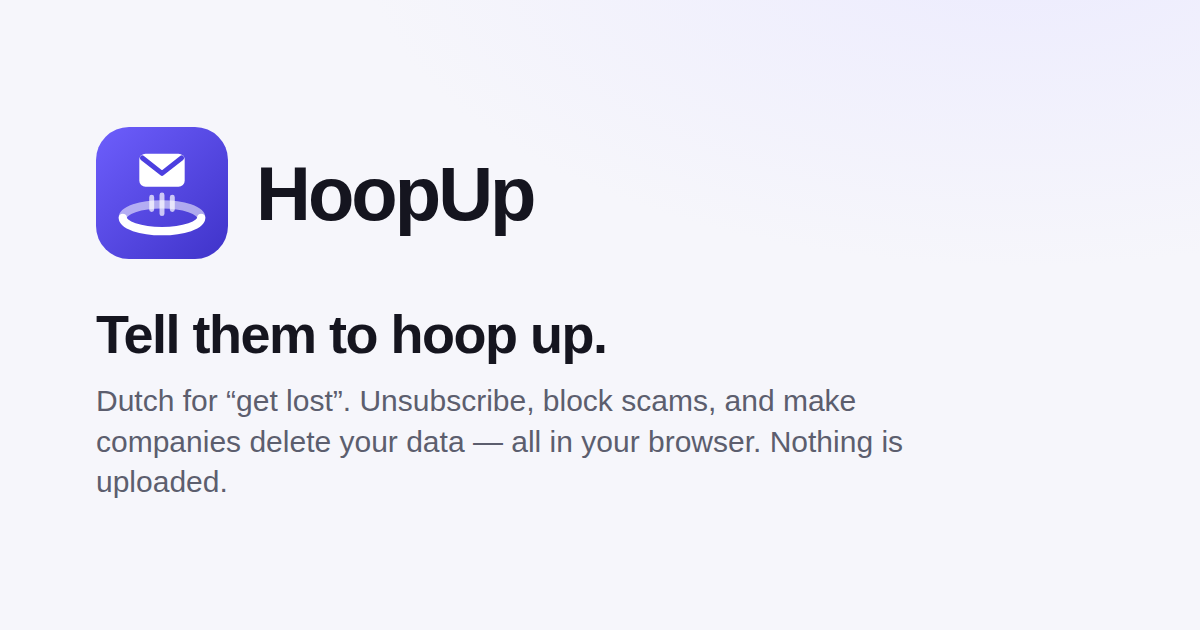
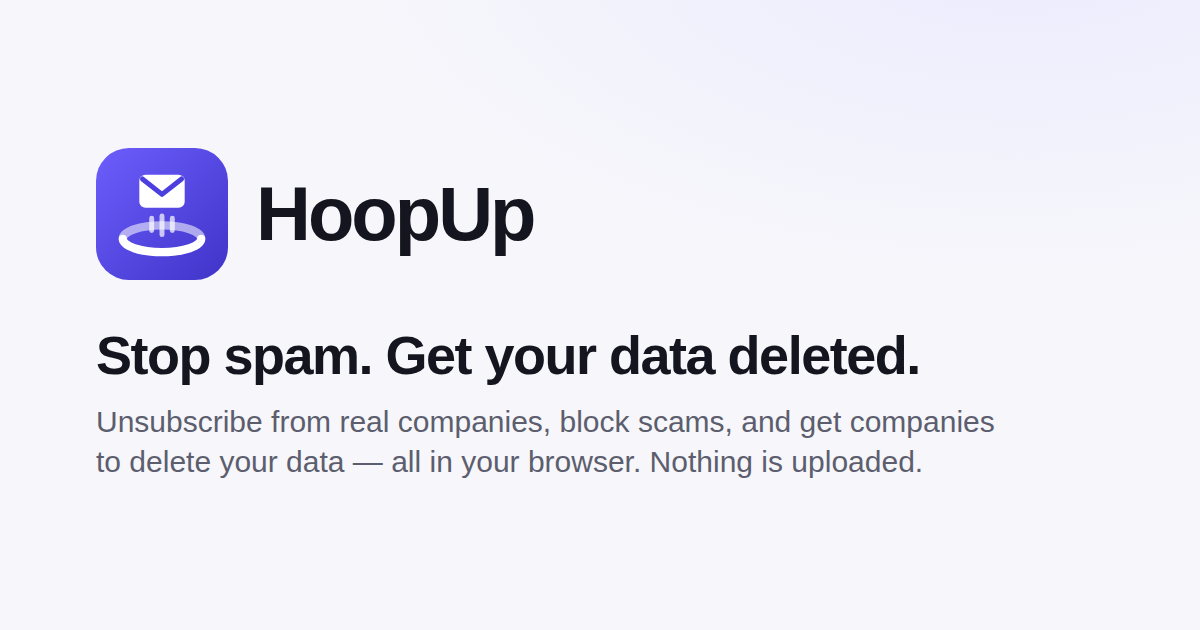
Plain front page: say what HoopUp does, not what the name means
Headline "Stop spam. Get your data deleted." / "Stop spam. Laat je
gegevens wissen.", one sentence on what to do, and three numbered steps
(unsubscribe, block, delete) above the drop zone. The explanation of the
name is gone from the front page, title, link preview, manifest and
README; it remains only on the About page.

Claude-Session: https://claude.ai/code/session_01XV4u65F8vtqzABBY9Vux4v

diff --git a/src/home.js b/src/home.js
@@ -166,17 +166,19 @@ export function home(state) {
   if (!mail.length) return `
   <section class="hero">
     <img class="hero-mark" src="assets/img/icon.svg" alt="" width="56" height="56">
-    <h1>${L('Tell them to hoop up.', 'Laat ze ophoepelen.')}</h1>
-    ${L('<p class="hero-eyebrow">From the Dutch <i>hoepel op!</i> — get lost.</p>', '')}
-    <p>${L(`Drop in the mail from your Junk folder. Real companies get an unsubscribe, scams get blocked,
-    and you see which companies to make delete your data — on this device. Nothing is uploaded.`,
-    `Sleep de mail uit je map Ongewenst hierheen. Echte bedrijven krijgen een uitschrijving, oplichters worden
-    geblokkeerd, en je ziet welke bedrijven je gegevens moeten wissen — op dit apparaat. Er wordt niets geüpload.`)}</p>
+    <h1>${L('Stop spam. Get your data deleted.', 'Stop spam. Laat je gegevens wissen.')}</h1>
+    <p>${L('Drop in the mail from your junk folder. HoopUp tells you what to do with each sender.',
+           'Sleep de mail uit je map Ongewenst hierheen. HoopUp vertelt je wat je met elke afzender doet.')}</p>
+    <ol class="steps">
+      <li><b>${L('Unsubscribe', 'Uitschrijven')}</b><span>${L('from real companies', 'bij echte bedrijven')}</span></li>
+      <li><b>${L('Block', 'Blokkeren')}</b><span>${L('scams and fake senders', 'oplichting en nepafzenders')}</span></li>
+      <li><b>${L('Delete', 'Wissen')}</b><span>${L('your data at companies', 'je gegevens bij bedrijven')}</span></li>
+    </ol>
     ${dropZone(false)}
     <ul class="trust">
       <li>${L('Nothing is uploaded', 'Er wordt niets geüpload')}</li>
       <li>${L('No account', 'Geen account')}</li>
-      <li>${L('Free &amp; open source', 'Gratis &amp; open source')}</li>
+      <li>${L('Free', 'Gratis')}</li>
     </ul>
     ${HOWTO()}
     <p class="small muted" style="margin-top:22px">${L(`Already know a company that holds your data?

diff --git a/index.html b/index.html
@@ -3,14 +3,14 @@
 <head>
 <meta charset="utf-8">
 <meta name="viewport" content="width=device-width, initial-scale=1">
-<title>HoopUp — tell them to hoop up</title>
-<meta name="description" content="HoopUp — Dutch for &quot;get lost&quot;. Unsubscribe from real companies, block scams, and make companies delete your data under the GDPR. Free, and nothing ever leaves your browser.">
+<title>HoopUp — stop spam, get your data deleted</title>
+<meta name="description" content="Unsubscribe from real companies, block scams, and get companies to delete your data. Free, and nothing ever leaves your browser.">
 <link rel="canonical" href="https://hoopup.tech/">
 <meta name="theme-color" content="#4c3fe0">
 <meta property="og:type" content="website">
-<meta property="og:title" content="HoopUp — tell them to hoop up">
+<meta property="og:title" content="HoopUp — stop spam, get your data deleted">
 <meta property="og:url" content="https://hoopup.tech/">
-<meta property="og:description" content="Unsubscribe, block scams, and make companies delete your data. Nothing leaves your browser.">
+<meta property="og:description" content="Unsubscribe, block scams, and get companies to delete your data. Nothing leaves your browser.">
 <meta property="og:image" content="https://hoopup.tech/assets/img/og.png">
 <meta name="twitter:card" content="summary_large_image">
 <meta name="color-scheme" content="light dark">

diff --git a/assets/css/app.css b/assets/css/app.css
@@ -407,3 +407,18 @@ button, .btn { border-radius: 9px; transition: border-color .12s, color .12s, fi
 .legal li { margin-bottom: 6px; }
 .legal p:last-child { margin-bottom: 0; }
 .hero-eyebrow { margin: -4px auto 14px !important; font-size: .9rem; color: var(--muted); }
+.steps {
+  list-style: none; counter-reset: step; padding: 0; margin: 0 auto 22px; max-width: 560px;
+  display: grid; grid-template-columns: repeat(3, 1fr); gap: 10px;
+}
+.steps li {
+  counter-increment: step; display: flex; flex-direction: column; gap: 2px; align-items: center;
+  background: var(--surface); border: 1px solid var(--line); border-radius: var(--radius); padding: 12px 8px;
+  font-size: .86rem; color: var(--muted);
+}
+.steps li::before {
+  content: counter(step); width: 22px; height: 22px; border-radius: 50%; display: grid; place-items: center;
+  background: var(--accent-soft); color: var(--accent); font-weight: 700; font-size: .78rem; margin-bottom: 4px;
+}
+.steps b { color: var(--text); font-size: .95rem; }
+@media (max-width: 560px) { .steps { grid-template-columns: 1fr; } .steps li { flex-direction: row; gap: 6px; justify-content: flex-start; } .steps li::before { margin: 0 4px 0 0; } }

diff --git a/README.md b/README.md
@@ -2,7 +2,7 @@
 
 # HoopUp
 
-**Tell them to hoop up.** *Hoepel op!* is Dutch for "get lost". Unsubscribe from real companies, block scams, and make companies delete your
+**Stop spam. Get your data deleted.** Unsubscribe from real companies, block scams, and make companies delete your
 data under the GDPR — all in your browser. No account, no server, no analytics: nothing you enter or
 drop in is ever uploaded. Available in English and Dutch.
 
